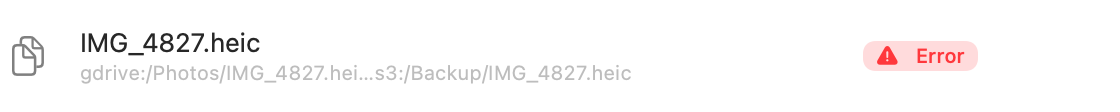
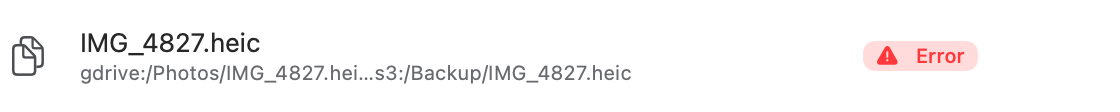
fix: use the theme's text colours everywhere, not the system labels
The semantic text tokens were the system label colours, whose secondary
and tertiary levels (55% and 25% white in dark mode) are too faint on the
Stratosphere blue: 3.7:1 and 1.9:1. They now come from the palette (80%
and 72% white, and its dark tones in light mode), so every screen that
uses the tokens is readable: file lists, the inspector, transfer rows,
search results, status badges and the sheets.

Changed region(s): [[0.0625, 0.5625, 0.5625, 0.75], [0.0, 0.3214, 0.0625, 0.6964]]

diff --git a/Nimbus/Nimbus/DesignSystem/Tokens/Colors.swift b/Nimbus/Nimbus/DesignSystem/Tokens/Colors.swift
@@ -1,3 +1,4 @@
+import AppKit
 import SwiftUI
 
 extension DesignSystem {
@@ -9,14 +10,32 @@ extension DesignSystem {
             public static let surfaceElevated = SwiftUI.Color(nsColor: .underPageBackgroundColor)
             public static let selection       = SwiftUI.Color(nsColor: .selectedContentBackgroundColor)
             public static let separator       = SwiftUI.Color(nsColor: .separatorColor)
-            public static let textPrimary     = SwiftUI.Color(nsColor: .labelColor)
-            public static let textSecondary   = SwiftUI.Color(nsColor: .secondaryLabelColor)
-            public static let textTertiary    = SwiftUI.Color(nsColor: .tertiaryLabelColor)
+            // Text is the Stratosphere palette's, not the system labels'.
+            // Every surface in the app is the theme's blue (or its light
+            // counterpart), and the system's secondary and tertiary labels
+            // (55% and 25% white in dark mode, tuned for a near-black
+            // window) measure 3.7:1 and 1.9:1 on it. Small text needs
+            // 4.5:1; the palette's 80% and 72% give 5.9:1 and 5.1:1.
+            public static let textPrimary     = themed { $0.textPrimary }
+            public static let textSecondary   = themed { $0.textSecondary }
+            public static let textTertiary    = themed { $0.textTertiary }
             public static let statusOK        = SwiftUI.Color(nsColor: .systemGreen)
             public static let statusWarning   = SwiftUI.Color(nsColor: .systemOrange)
             public static let statusError     = SwiftUI.Color(nsColor: .systemRed)
             public static let statusInfo      = SwiftUI.Color(nsColor: .systemBlue)
             public static let statusMuted     = SwiftUI.Color(nsColor: .systemGray)
+
+            /// A colour that follows the appearance of whatever draws it,
+            /// taking its value from the Stratosphere palette.
+            private static func themed(
+                _ pick: @escaping @Sendable (DesignSystem.Stratosphere.Palette) -> DesignSystem.Stratosphere.RGBA
+            ) -> SwiftUI.Color {
+                SwiftUI.Color(nsColor: NSColor(name: nil) { appearance in
+                    let isDark = appearance.bestMatch(from: [.darkAqua, .aqua]) == .darkAqua
+                    let tone = pick(isDark ? .dark : .light)
+                    return NSColor(srgbRed: tone.r, green: tone.g, blue: tone.b, alpha: tone.a)
+                })
+            }
         }
     }
 }

diff --git a/Nimbus/Nimbus/Views/Browser/BrowserView.swift b/Nimbus/Nimbus/Views/Browser/BrowserView.swift
@@ -279,7 +279,7 @@ struct BrowserView: View {
                     if index > 0 {
                         Image(systemName: "chevron.right")
                             .font(DesignSystem.Typography.caption)
-                            .foregroundStyle(.secondary)
+                            .foregroundStyle(DesignSystem.Color.semantic.textSecondary)
                     }
                     Button {
                         Task { await viewModel.navigateTo(path: component.path) }
@@ -294,7 +294,8 @@ struct BrowserView: View {
                     .font(index == viewModel.pathComponents.count - 1
                           ? DesignSystem.Typography.bodyEmphasized
                           : DesignSystem.Typography.body)
-                    .foregroundStyle(index == viewModel.pathComponents.count - 1 ? .primary : .secondary)
+                    .foregroundStyle(index == viewModel.pathComponents.count - 1
+                                     ? DesignSystem.Color.semantic.textPrimary : DesignSystem.Color.semantic.textSecondary)
                 }
             }
             .padding(.horizontal, DesignSystem.Spacing.l)

diff --git a/Nimbus/Nimbus/Views/Sidebar.swift b/Nimbus/Nimbus/Views/Sidebar.swift
@@ -35,7 +35,7 @@ struct Sidebar: View {
                                 Text(bookmark.label)
                                 Text("\(bookmark.remoteName):\(bookmark.path)")
                                     .font(.caption)
-                                    .foregroundStyle(.secondary)
+                                    .foregroundStyle(DesignSystem.Color.semantic.textSecondary)
                             }
                         } icon: {
                             Image(systemName: "folder.badge.star")
